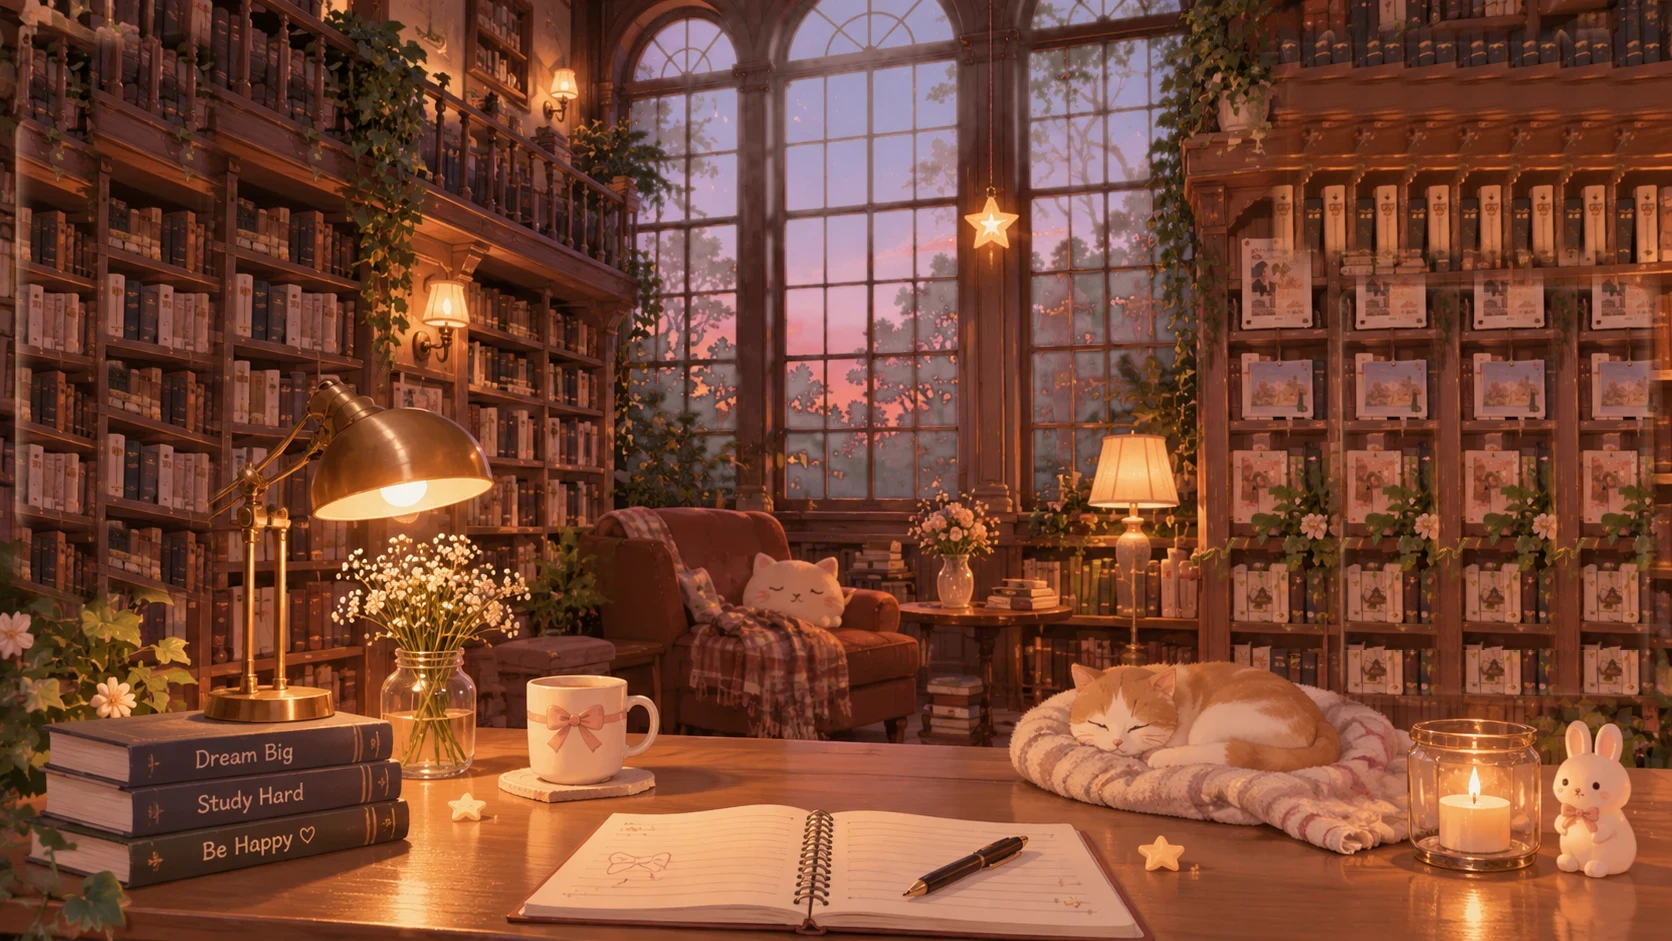
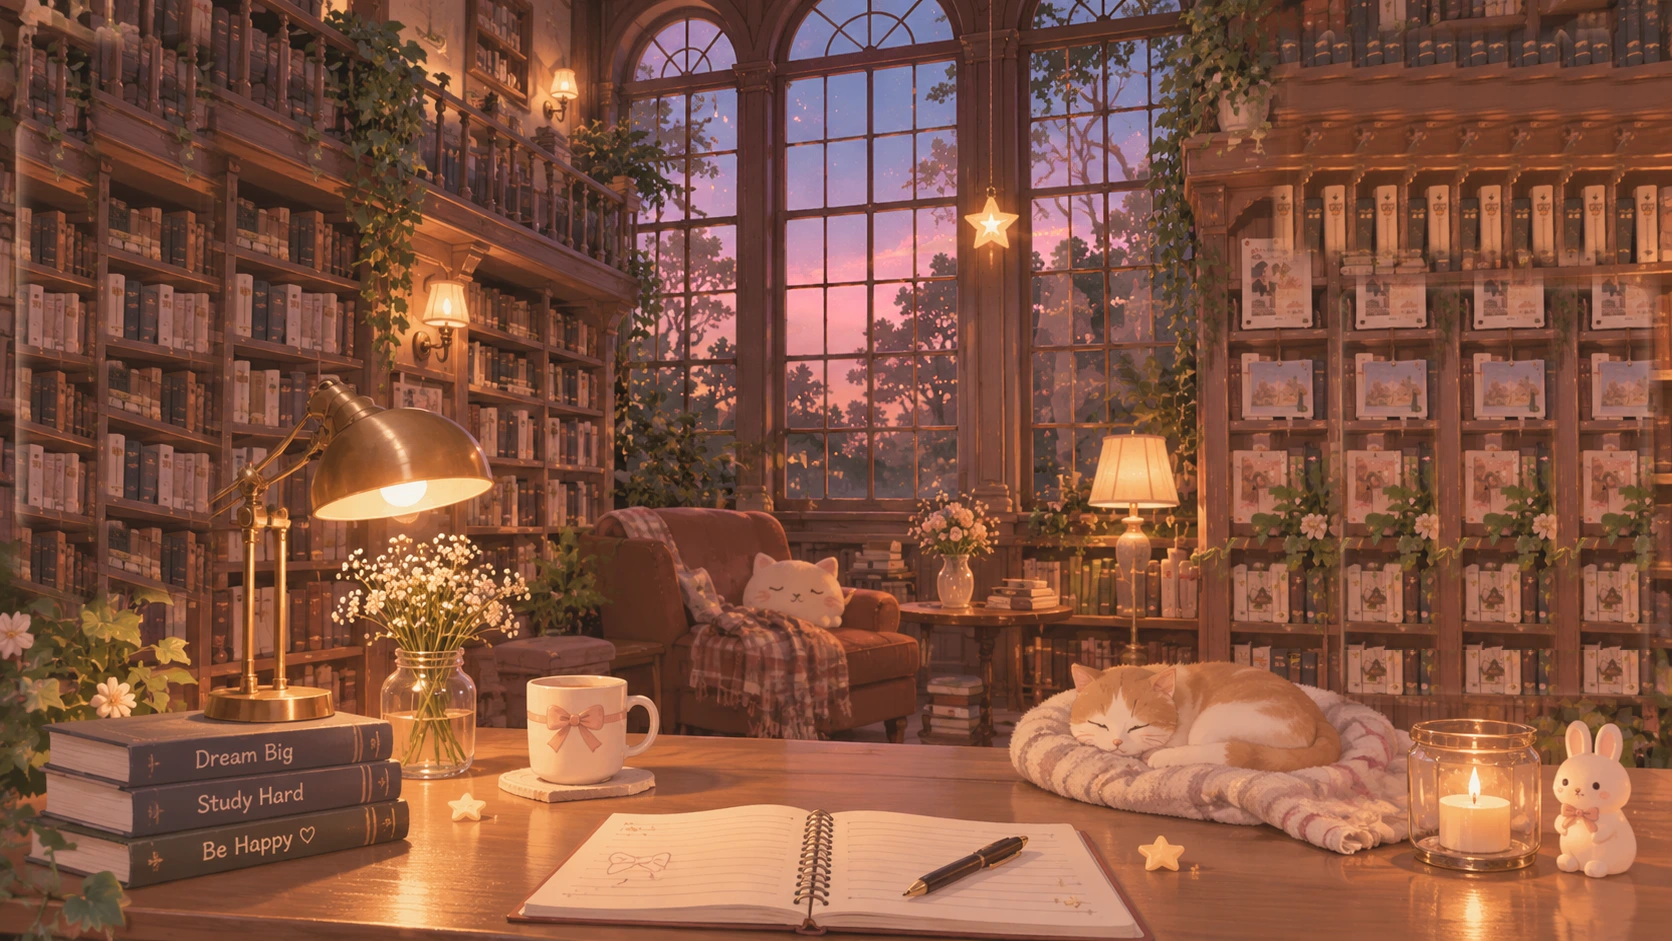
fix: clear transparent glass at every time of day

diff --git a/src/painted.js b/src/painted.js
@@ -52,7 +52,6 @@ export function createPainted(stage, opts) {
   ['morning', 'day', 'night'].forEach(function (t) { var v = new Image(); v.className = 'art-img tod'; v.alt = ''; v.decoding = 'async'; art.appendChild(v); TODIMG[t] = v; });
   function layer(cls) { var d = document.createElement('div'); d.className = cls; art.appendChild(d); return d; }
   var rainCv = document.createElement('canvas'); rainCv.className = 'rain'; rainCv.width = 560; rainCv.height = 500; rainCv.style.cssText = 'left:630px;top:0;width:560px;height:500px'; rainCv.style.clipPath = 'polygon(0 0, 100% 0, 100% 99.4%, 0 99.4%)'; art.appendChild(rainCv);
-  layer('grade');
   Object.keys(LIGHTS).forEach(function (k) {
     var L = LIGHTS[k], g = layer('glow glow-' + k);
     g.style.cssText = 'left:' + (L.x - L.r) + 'px;top:' + (L.y - L.r) + 'px;width:' + (2 * L.r) + 'px;height:' + (2 * L.r) + 'px;background:radial-gradient(circle, rgba(' + L.c + ',' + L.a + ') 0%, rgba(' + L.c + ',' + (L.a * .35) + ') 35%, rgba(' + L.c + ',0) 70%)';
@@ -103,7 +102,7 @@ export function createPainted(stage, opts) {
   new MutationObserver(function () { requestAnimationFrame(fit); }).observe(document.body, { attributes: true, attributeFilter: ['class'] });
   fit(); setTimeout(function () { root.classList.add('framed'); }, 400); window.addEventListener('load', fit); if (document.fonts && document.fonts.ready) document.fonts.ready.then(fit);
 
-  /* ---------- time of day: a gentle grade over the painting and the sky ---------- */
+  /* ---------- time of day: crossfade between versions of the painting ---------- */
   function setTod(t) {
     root.dataset.tod = t;
     Object.keys(TODIMG).forEach(function (k) { var v = TODIMG[k]; if (k === t && !v.src) v.src = (opts.base || '/') + 'scene/library-dusk-' + k + '.webp'; v.classList.toggle('on', k === t); });
@@ -136,7 +135,8 @@ export function createPainted(stage, opts) {
     motes.forEach(function (p) {
       if (!reduce) { p.x += p.vx * dt + Math.sin(now / 1700 + p.ph) * .05; p.y += p.vy * dt; if (p.y < 20) { p.y = 420; p.x = 120 + Math.random() * 640; } }
       var tw = .35 + .35 * Math.sin(now / 900 + p.ph);
-      dctx.fillStyle = 'rgba(255,226,170,' + (tw * (lampOn ? .8 : .35)) + ')'; dctx.beginPath(); dctx.arc(p.x, p.y, p.r, 0, 7); dctx.fill();
+      var inWin = Math.max(0, Math.min(1, Math.min(p.x - 305, 602 - p.x, 260 - p.y) / 14));                   // never in front of the glass (artwork / 2)
+      dctx.fillStyle = 'rgba(255,226,170,' + (tw * (lampOn ? .8 : .35) * (1 - inWin)) + ')'; dctx.beginPath(); dctx.arc(p.x, p.y, p.r, 0, 7); dctx.fill();
     });
     rctx.clearRect(0, 0, 560, 500);
     if (rain > .01) {                                        // optional weather: a few thin, faint streaks falling outside the glass

diff --git a/src/style.css b/src/style.css
@@ -388,12 +388,6 @@ body { background: #3A2318; }
 .art { position: absolute; left: 0; top: 0; width: 1672px; height: 941px; transform-origin: 0 0; }
 .art-img { position: absolute; inset: 0; width: 100%; height: 100%; display: block; user-select: none; -webkit-user-drag: none; pointer-events: none; }
 .sky-tint, .grade { position: absolute; inset: 0; pointer-events: none; transition: background-color 1.4s ease, opacity 1.4s ease; }
-.painted[data-tod="night"] .sky-tint { background: rgba(30,32,96,.32); mix-blend-mode: multiply; }
-.painted[data-tod="night"] .grade { background: rgba(34,24,70,.26); mix-blend-mode: multiply; }
-.painted[data-tod="morning"] .sky-tint { background: rgba(255,206,180,.42); mix-blend-mode: screen; }
-.painted[data-tod="morning"] .grade { background: rgba(255,236,220,.10); mix-blend-mode: screen; }
-.painted[data-tod="day"] .sky-tint { background: rgba(170,215,255,.55); mix-blend-mode: screen; }
-.painted[data-tod="day"] .grade { background: rgba(255,248,236,.14); mix-blend-mode: screen; }
 .glow { position: absolute; border-radius: 50%; pointer-events: none; mix-blend-mode: screen; animation: glowBreathe 6s ease-in-out infinite; transition: opacity .6s ease; }
 .glow-candle { animation: candleFlicker 2.8s infinite; }
 .glow-star { animation: glowBreathe 3.4s ease-in-out infinite; }
